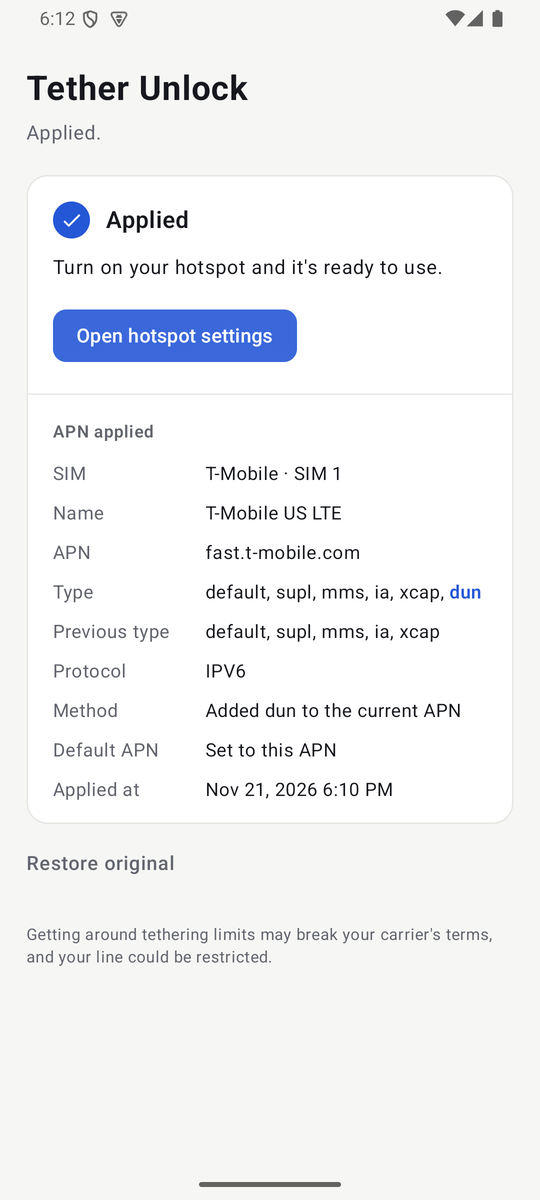
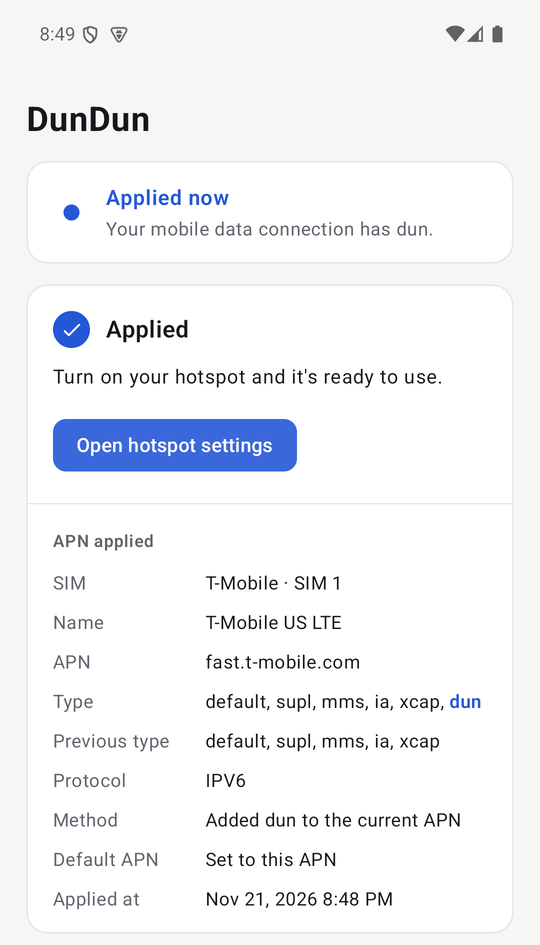
이름을 던던(DunDun)으로, 엑셀코스피 연결 (1.3.0)
앱 이름·페어링 기기 이름·README·스크린샷을 던던으로 바꾸고 소개 문구를 'APN 설정 도우미'로 순화.
적용 완료 화면에 엑셀코스피 시세 보기 한 줄(한국어 화면만, utm 표시).
업데이트 확인 저장소를 ohseyong/dundun 으로 바꿈(저장소 이름 변경 뒤 공개해야 함).

diff --git a/app/src/main/java/app/tetherfree/MainActivity.kt b/app/src/main/java/app/tetherfree/MainActivity.kt
@@ -65,6 +65,7 @@ import androidx.compose.ui.Alignment
 import androidx.compose.ui.Modifier
 import androidx.compose.ui.graphics.Color
 import androidx.compose.ui.platform.LocalContext
+import androidx.compose.ui.platform.LocalConfiguration
 import androidx.compose.ui.text.font.FontWeight
 import androidx.compose.ui.text.AnnotatedString
 import androidx.compose.ui.text.SpanStyle
@@ -429,6 +430,24 @@ private fun DoneCard(result: Map<String, String>, appliedAt: Long, carrier: Stri
             Text(stringResource(R.string.done_body), fontSize = 15.sp, color = scheme.onSurface)
             Spacer(Modifier.height(16.dp))
             Primary(stringResource(R.string.done_hotspot), onHotspot)
+            // 핫스팟에 노트북을 붙인 사람에게 엑셀코스피를 권한다. 한국 주식 사이트라 한국어 화면에서만.
+            if (LocalConfiguration.current.locales[0].language == "ko") {
+                val context = LocalContext.current
+                Spacer(Modifier.height(14.dp))
+                Text(
+                    stringResource(R.string.promo_excelkospi) + " →",
+                    fontSize = 14.sp,
+                    fontWeight = FontWeight.Medium,
+                    color = scheme.primary,
+                    modifier = Modifier
+                        .clickable {
+                            runCatching {
+                                context.startActivity(Intent(Intent.ACTION_VIEW, Uri.parse(EXCELKOSPI_URL)))
+                            }
+                        }
+                        .padding(vertical = 6.dp),
+                )
+            }
         }
         HorizontalDivider(color = scheme.outlineVariant)
         if (result.isEmpty()) {
@@ -463,6 +482,8 @@ private fun DoneCard(result: Map<String, String>, appliedAt: Long, carrier: Stri
         }
     }
 }
+
+private const val EXCELKOSPI_URL = "https://excelkospi.ai/?utm_source=dundun&utm_medium=app&utm_campaign=done"
 
 @StringRes
 private fun modeLabel(mode: String?): Int = when (mode) {

diff --git a/app/src/main/java/app/tetherfree/Updater.kt b/app/src/main/java/app/tetherfree/Updater.kt
@@ -36,7 +36,7 @@ import java.util.concurrent.TimeUnit
  * 받은 APK는 지금 설치된 앱과 같은 키로 서명됐는지, 버전이 더 높은지 확인한 뒤에만 설치한다.
  */
 object Updater {
-    const val REPO = "ohseyong/tether-free"
+    const val REPO = "ohseyong/dundun"
     private const val TAG = "Updater"
     private const val CHANNEL = "update"
     private const val NOTIFY_ID = 21
@@ -84,7 +84,7 @@ object Updater {
                 connectTimeout = 15_000
                 readTimeout = 15_000
                 setRequestProperty("Accept", "application/vnd.github+json")
-                setRequestProperty("User-Agent", "TetherUnlock-Updater")
+                setRequestProperty("User-Agent", "DunDun-Updater")
             }
             val body = conn.inputStream.bufferedReader().use { it.readText() }
             val json = JSONObject(body)
@@ -131,13 +131,13 @@ object Updater {
     private fun download(context: Context, release: Release): File {
         val dir = File(context.cacheDir, "update").apply { mkdirs() }
         dir.listFiles()?.forEach { it.delete() }
-        val file = File(dir, "tether-unlock-${release.version}.apk")
+        val file = File(dir, "dundun-${release.version}.apk")
         state.value = State.Downloading(release, 0)
         val conn = (URL(release.apkUrl).openConnection() as HttpURLConnection).apply {
             connectTimeout = 15_000
             readTimeout = 30_000
             instanceFollowRedirects = true
-            setRequestProperty("User-Agent", "TetherUnlock-Updater")
+            setRequestProperty("User-Agent", "DunDun-Updater")
         }
         val total = conn.contentLengthLong.takeIf { it > 0 } ?: release.size
         conn.inputStream.use { input ->

diff --git a/app/src/main/java/app/tetherfree/AdbManager.kt b/app/src/main/java/app/tetherfree/AdbManager.kt
@@ -35,7 +35,7 @@ class AdbManager private constructor(context: Context) : AbsAdbConnectionManager
         } else {
             val generator = KeyPairGenerator.getInstance("RSA").apply { initialize(2048, SecureRandom()) }
             val pair = generator.generateKeyPair()
-            val name = X500Name("CN=TetherFree")
+            val name = X500Name("CN=DunDun")
             val now = Date()
             val until = Date(now.time + 20L * 365 * 24 * 60 * 60 * 1000)
             val serial = BigInteger.valueOf(SecureRandom().nextLong() and Long.MAX_VALUE)
@@ -50,7 +50,7 @@ class AdbManager private constructor(context: Context) : AbsAdbConnectionManager
 
     override fun getPrivateKey(): PrivateKey = key
     override fun getCertificate(): Certificate = cert
-    override fun getDeviceName(): String = "TetherFree"
+    override fun getDeviceName(): String = "DunDun"
 
     /** 셸 명령을 실행하고 출력 전체를 돌려준다. 오래 걸리면 끊는다. */
     fun exec(command: String, timeoutMs: Long = 30_000): String {

diff --git a/README.en.md b/README.en.md
@@ -1,9 +1,11 @@
-# Tether Unlock
+# DunDun
 
-An open-source app that lifts carrier tethering limits on Samsung Galaxy phones (One UI 7 and later), all from one app.
+An open-source Galaxy app that sets up your APN when your hotspot won't work.
 No PC, no root, no Shizuku.
 
-[한국어](README.md) · [Download the latest APK](https://github.com/ohseyong/tether-free/releases/latest)
+The name comes from `dun`, the APN type this app adds.
+
+[한국어](README.md) · [Download the latest APK](https://github.com/ohseyong/dundun/releases/latest)
 
 <p>
   <img src="docs/screenshots/en-steps.png" width="250" alt="Setup steps">
@@ -36,7 +38,7 @@ This app does it in one app and four steps.
 
 ## Install
 
-1. Download `tether-unlock-*.apk` from [Releases](https://github.com/ohseyong/tether-free/releases/latest).
+1. Download `dundun-*.apk` from [Releases](https://github.com/ohseyong/dundun/releases/latest).
 2. Open it on your phone to install. If asked, allow installing unknown apps.
 
 Requires Android 13 or later and a Wi-Fi connection (Wi-Fi without internet works too).
@@ -74,7 +76,7 @@ Restore uses the record saved when applying (original type and original default 
 ## Notes
 
 - Getting around tethering limits may break your carrier's terms, and your line could be restricted. Use it at your own judgment.
-- The full flow (pairing, apply, restore) was tested on an Android 15 emulator. Results on real Galaxy phones and carrier lines can differ. Please share yours in [Issues](https://github.com/ohseyong/tether-free/issues).
+- The full flow (pairing, apply, restore) was tested on an Android 15 emulator. Results on real Galaxy phones and carrier lines can differ. Please share yours in [Issues](https://github.com/ohseyong/dundun/issues).
 - You may need to apply again after a carrier settings update or a reset.
 - The only place the app connects to on the internet is GitHub (api.github.com, github.com), for update checks. It sends no personal data.
 
@@ -91,6 +93,10 @@ The APK is at `app/build/outputs/apk/release/app-release.apk`. To sign with your
 - [DunUnlocker](https://github.com/naijun0403/DunUnlocker): found the way to add `dun` to the APN. This app follows the same approach with new code.
 - [ShutterSoundZero](https://github.com/hoons1994/ShutterSoundZero): the settings shortcuts and notification code entry flow.
 - [libadb-android](https://github.com/MuntashirAkon/libadb-android), [Conscrypt](https://github.com/google/conscrypt), [Bouncy Castle](https://www.bouncycastle.org)
+
+## Made by
+
+The maker of [ExcelKOSPI](https://excelkospi.ai/?utm_source=dundun&utm_medium=github&utm_campaign=readme).
 
 ## License
 
